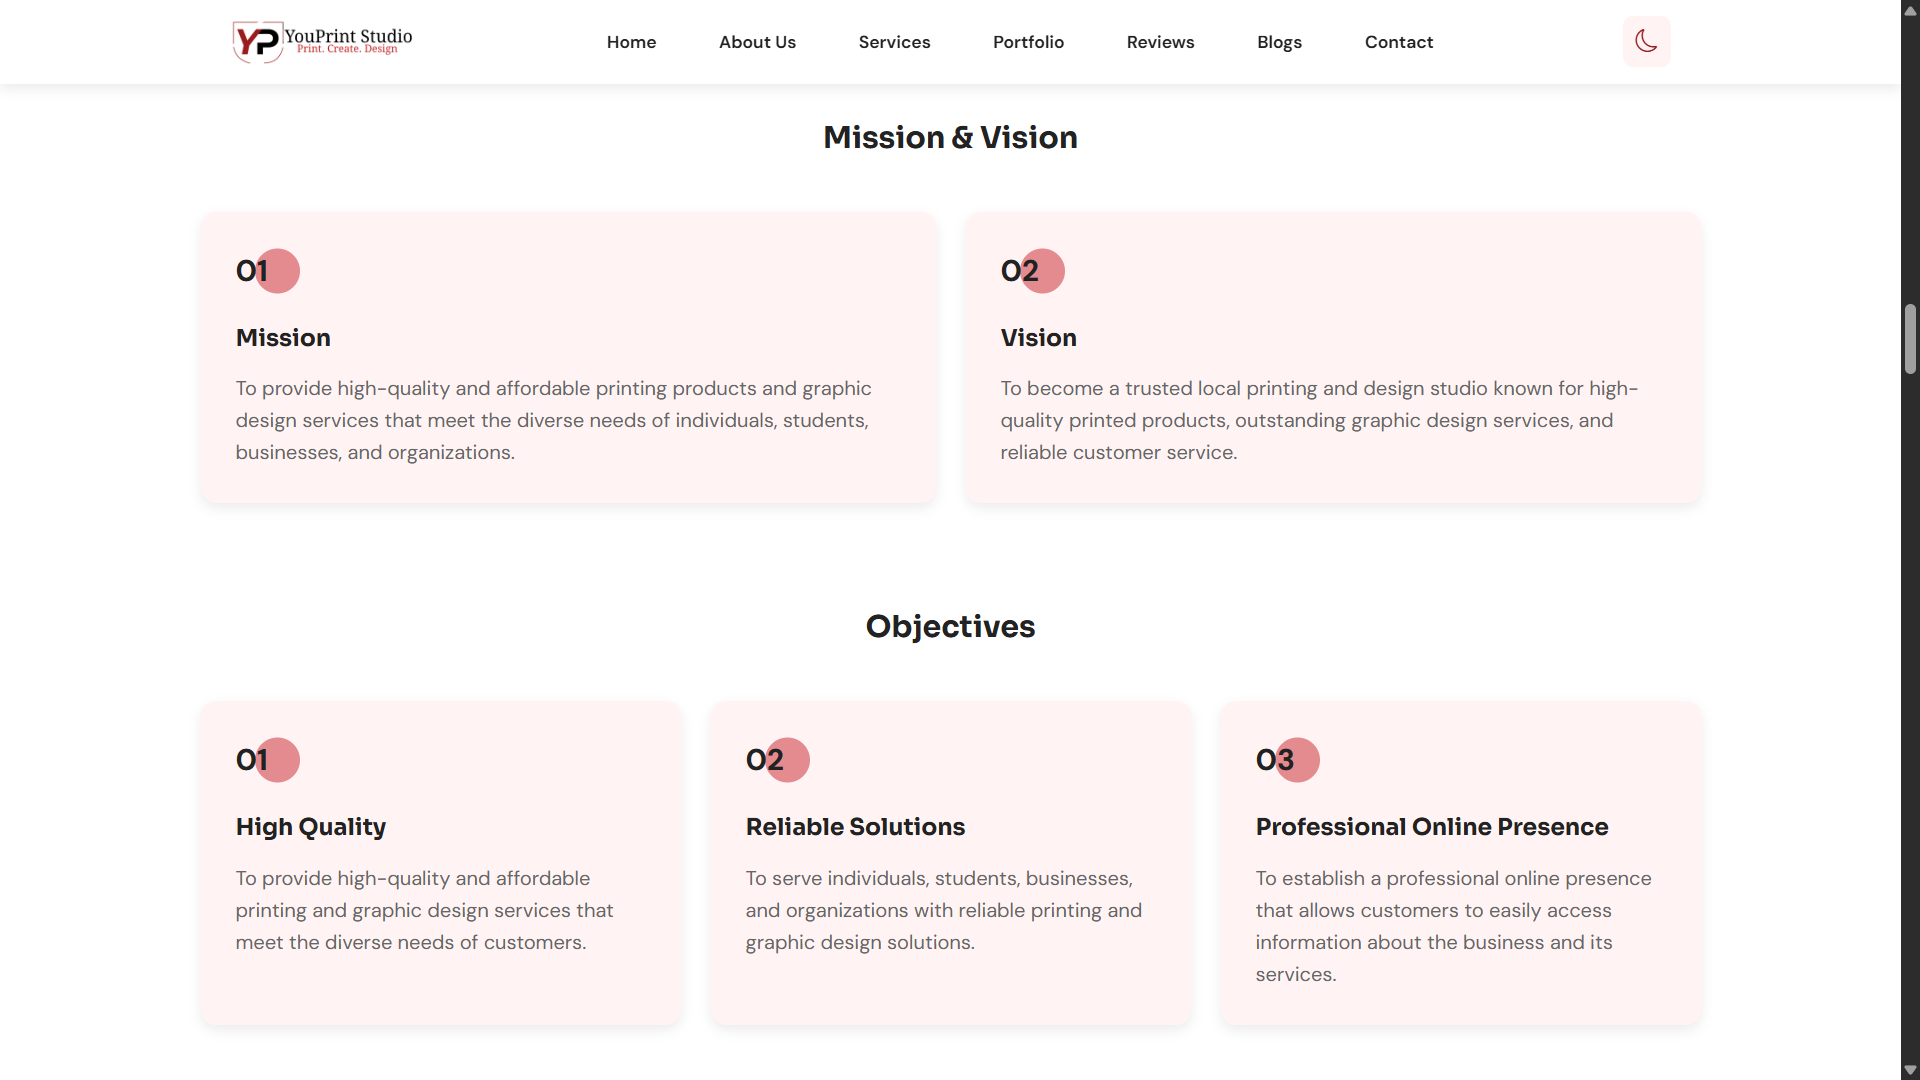
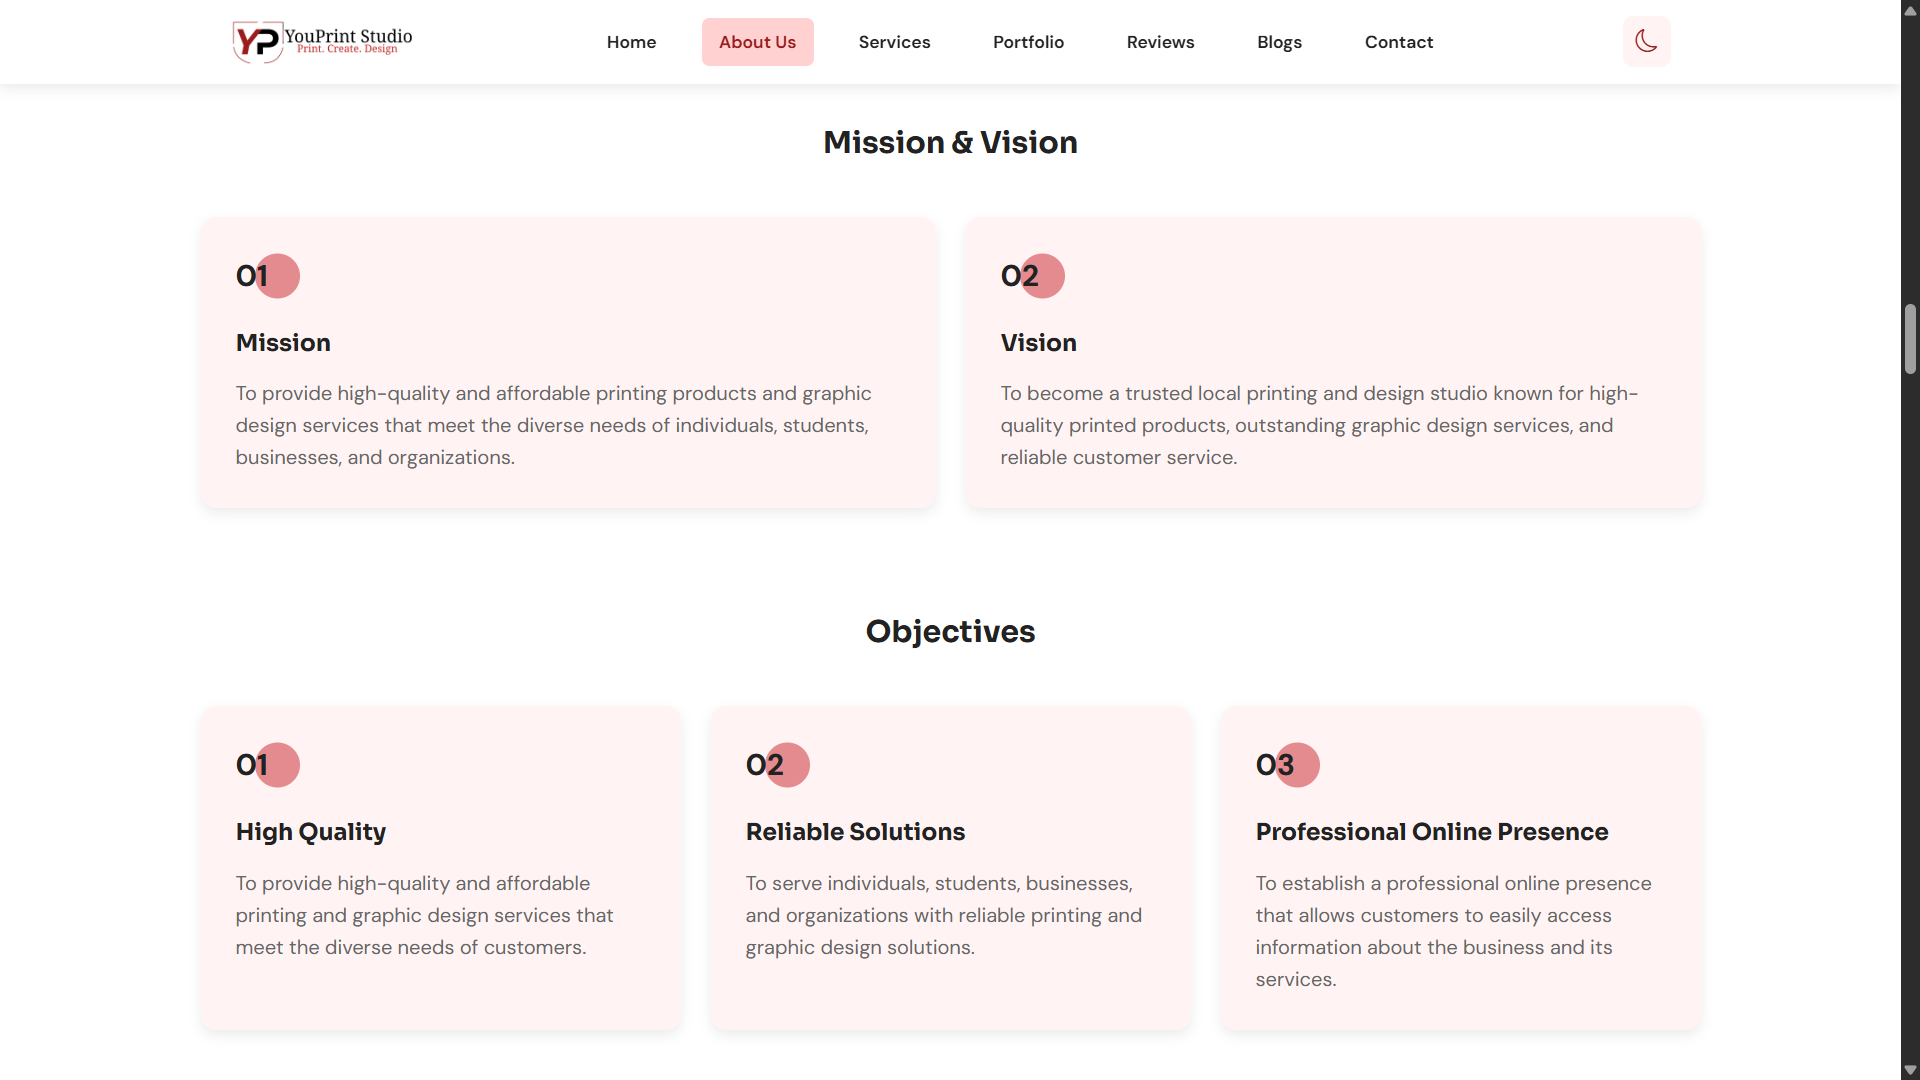
docs: update project README

diff --git a/README.md b/README.md
@@ -1,6 +1,7 @@
 # YouPrint Studio
-> A responsive business website for a local printing and graphic design service provider.
-> Live demo link: [YouPrint Studio Website](https://charlizesrn.github.io/YouPrint-Studio_Website/). 
+A responsive business website for a local printing and graphic design service provider.
+
+> 🌐 Live link: [YouPrint Studio Website](https://charlizesrn.github.io/YouPrint-Studio_Website/) 
 
 ## Table of Contents
 * [Description](#description)
@@ -15,33 +16,33 @@ YouPrint Studio is a business website designed for a local printing and graphic 
 
 The project was created to address the need for an accessible and organized platform that showcases printing and design services while making it easier for customers to connect with the business. Instead of relying solely on social media communication, the website provides a centralized location where users can browse service information, view sample works, check pricing guides, upload design files, and contact the studio.
 
-This academic project was undertaken to apply web development concepts such as semantic HTML, responsive design, accessibility practices, SEO optimization, interactive JavaScript functionality, and modern UI/UX principles while creating a realistic business website.
+This academic project was undertaken to apply web development concepts such as semantic HTML, responsive design, accessibility practices, SEO optimization, interactive JavaScript functionality, and modern UI/UX principles.
 
 
 ## Technologies Used
-Frontend Technologies
+### Frontend Technologies
 - HTML5 - HTML5 Standard
 - CSS3 - CSS3 Standard
 - JavaScript - ECMAScript 2023 (ES14) or JavaScript ES6+
 
-External Libraries & Resources
+### External Libraries & Resources
 
 - Google Fonts (Sora & DM Sans)
 - Bootstrap Icons
 - Font Awesome Icons
 
-Development Tools
+### Development Tools
 - Git - Latest Version
 - GitHub - Web Platform
 
-Deployment Platform
+### Deployment Platform
 - GitHub Pages - Web Hosting Service
 
 ## Features
 
 | Key Feature | Description | Preview |
 |------------|-------------|---------|
-| 🏠 Home Page | Professional landing page featuring company information, featured services, and call-to-action sections. | <img src="assets/screenshots/home 1.png" alt="Home section of the YouPrint Studio Website" width="500"> |
+| 🏠 Home Page | Professional landing page featuring company information, featured services, and call-to-action sections. | <img src="assets/screenshots/Home 1.png" alt="Home section of the YouPrint Studio Website" width="500"> |
 | 👤 About Us Page | Highlights the organization's mission, vision, and objective | <img src="assets/screenshots/About us 2.png" alt="Home section of the YouPrint Studio Website" width="500">
 | 🎨 Services Showcase | Highlights printing and graphic design services with dedicated service cards and pricing information. | <img src="assets/screenshots/Services 1.png" alt="Services section of the YouPrint Studio Website" width="500"> |
 | 📂 Portfolio Gallery | Displays previous printing and graphic design projects to showcase quality and creativity. | <img src="assets/screenshots/portfolio 1.png" alt="Portfolio section of the YouPrint Studio Website" width="500"> |
@@ -53,7 +54,6 @@ Deployment Platform
 | 💰 Pricing Guide | Provides pricing information for common printing and graphic design services. | <img src="assets/screenshots/Pricing Guide.png" alt="Pricing guide section of the YouPrint Studio Website" width="500"> |
 | 🌙 Dark Mode | Allows users to switch between light and dark themes for a more comfortable viewing experience. | <img src="assets/screenshots/Dark Mode.png" alt="Home section in dark mode of the YouPrint Studio Website" width="500"> |
 | 📱 Responsive Design | Optimized for desktop, tablet, and mobile devices to ensure a seamless experience across all screen sizes. | GIF
- |
 
 ### Technical Highlights
 - Design file type validation: Accept formats in PDF, JPG, JPEG, PNG, AI, TIF, and TIFF.
@@ -71,7 +71,7 @@ Explore the website through the screenshots below.
 
 1. Home
 
-<img src="assets/screenshots/home 1.png" alt="Home section of the YouPrint Studio Website" width="500">
+<img src="assets/screenshots/Home 1.png" alt="Home section of the YouPrint Studio Website" width="500">
 
 2. About Us
 
